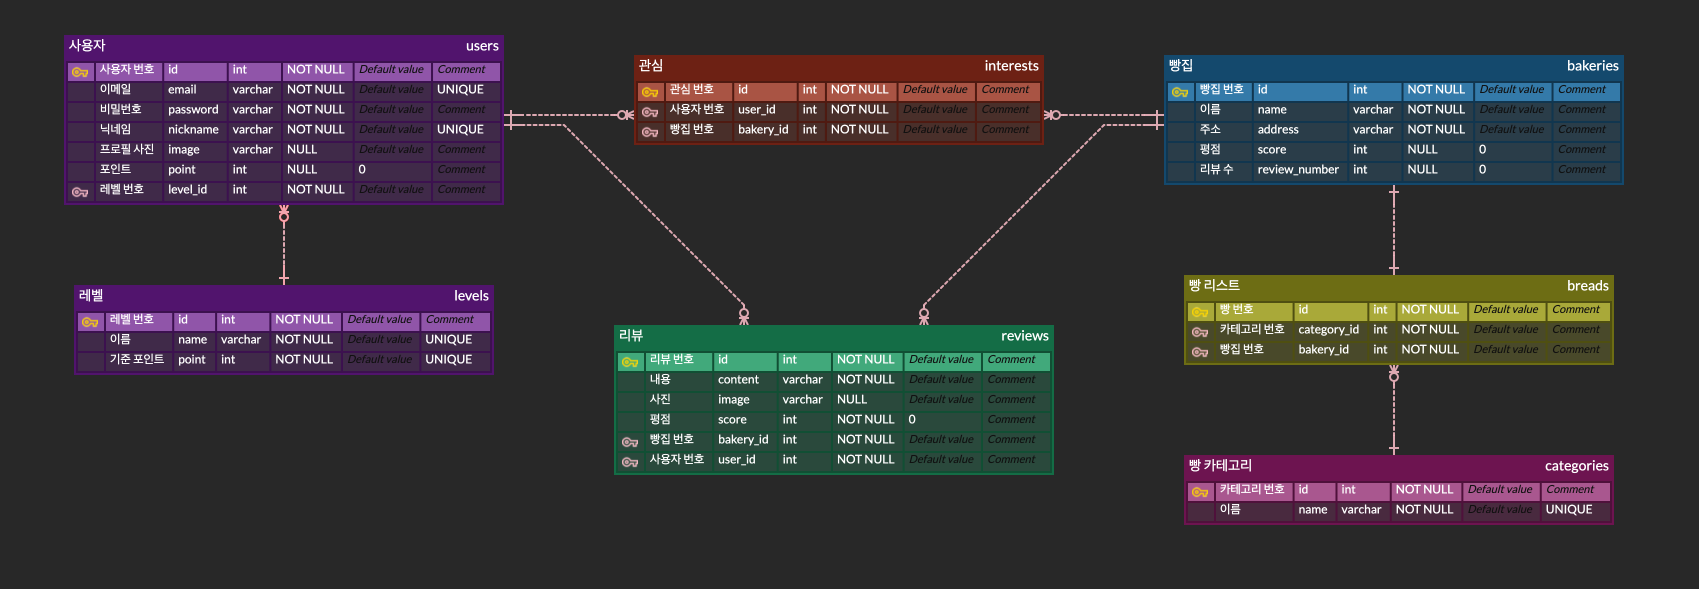
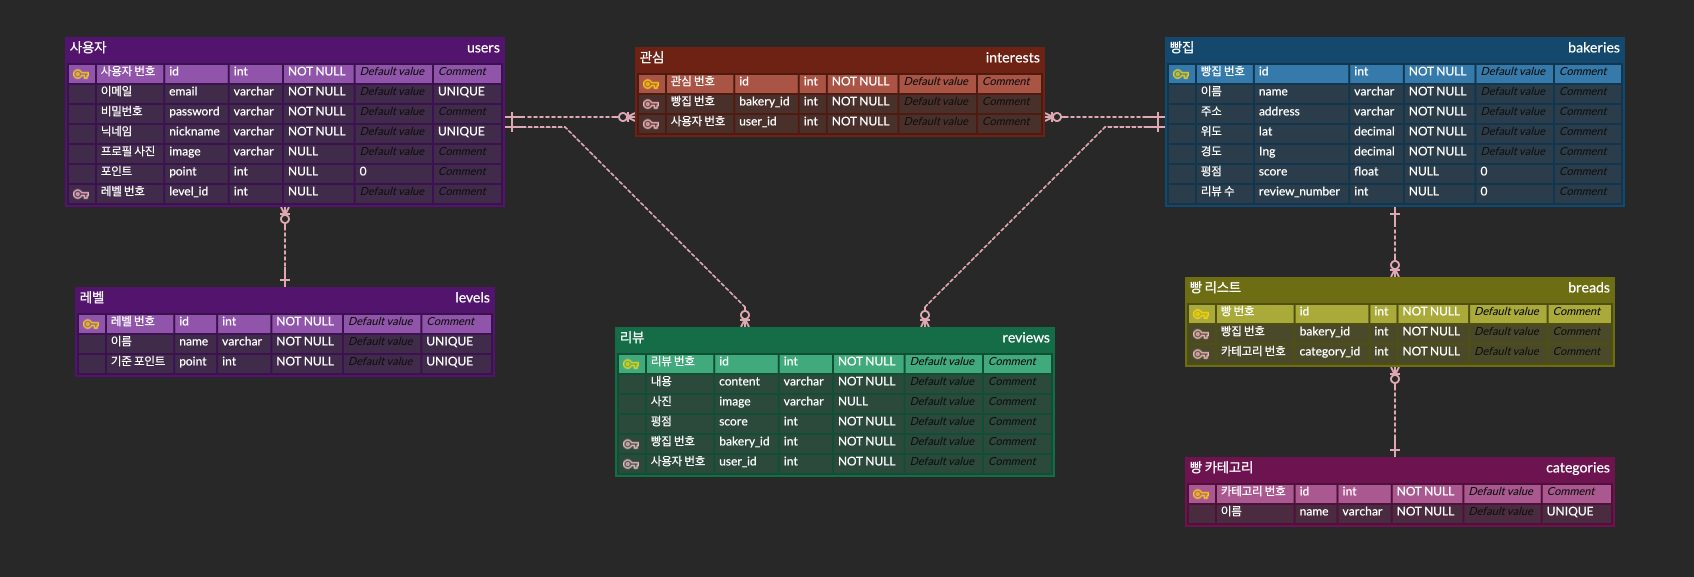
feat: 리뷰(reviews) 테이블 생성 후 관련 api

diff --git a/bakery-map/api/review.py b/bakery-map/api/review.py
@@ -1,0 +1,268 @@
+from flask import request, jsonify
+from flask_restx import Namespace, Resource
+
+from api.bakery import add_review, delete_review, change_review_score
+from api.user import plus_point, minus_point
+from models import Review, db
+from my_jwt import validate_token, get_user_id
+
+Review_api = Namespace(name='Review_api', description="API for managing reviews")
+
+
+@Review_api.route('')
+class ReviewCR(Resource):
+    def get(self):
+        """
+          Get all reviews with jwt.
+        """
+        """
+          Returns:
+            [
+              {
+                "id": 1,
+                "content": "베이글 좋아요",
+                "image": "review1",
+                "score": 5,
+                "bakery_id": 1,
+                "user_id": 1
+              },
+              {
+                "id": 2,
+                "content": "소금빵 좋아요",
+                "image": null,
+                "score": 4,
+                "bakery_id": 2,
+                "user_id": 1
+              },
+              ...
+            ]
+        """
+        token = request.headers.get('Authorization')
+
+        if not validate_token(token):
+            return jsonify({'result': "로그인 실패", 'message': "올바르지 않은 JWT입니다."})
+
+        user_id = get_user_id(token)
+        print(user_id)
+
+        result = []
+
+        try:
+            reviews = Review.query.filter_by(user_id=user_id).all()
+            for review in reviews:
+                result.append(make_result(review))
+
+        except Exception as e:
+            print(e)
+
+        return jsonify(result)
+
+    def post(self):
+        """
+          Create a new review with jwt.
+        """
+        """
+          Request:
+            {
+              "content": "베이글 좋아요",
+              "image": "review1",
+              "score": 5,
+              "bakery_id": 1
+            }
+          Returns:
+            {
+              "id": 1,
+              "content": "베이글 좋아요",
+              "image": "review1",
+              "score": 5,
+              "bakery_id": 1,
+              "user_id": 1
+            }
+        """
+        token = request.headers.get('Authorization')
+
+        if not validate_token(token):
+            return jsonify({'result': "로그인 실패", 'message': "올바르지 않은 JWT입니다."})
+
+        content = request.json.get('content')
+        image = request.json.get('image')
+        score = request.json.get('score')
+        bakery_id = request.json.get('bakery_id')
+        user_id = get_user_id(token)
+        print(bakery_id, user_id)
+
+        try:
+            if Review.query.filter_by(bakery_id=bakery_id, user_id=user_id).first():
+                result = {'result': "추가 실패", 'message': "이미 리뷰 작성한 빵집입니다."}
+
+            else:
+                review = Review(content=content, image=image, score=score, bakery_id=bakery_id, user_id=user_id)
+
+                add_review(bakery_id, score)
+                db.session.add(review)
+                plus_point(user_id, 10)
+
+                db.session.commit()
+
+                result = make_result(review)
+
+        except Exception as e:
+            print(e)
+            result = {}
+
+        return jsonify(result)
+
+
+@Review_api.route('/<int:id>')
+@Review_api.doc(params={'id': 'Review ID'})
+class ReviewRUD(Resource):
+    def get(self, id):
+        """
+          Get a review with jwt and ID.
+        """
+        """
+          Request:
+            GET /reviews/1
+          Returns:
+            {
+              "id": 1,
+              "content": "베이글 좋아요",
+              "image": "review1",
+              "score": 5,
+              "bakery_id": 1,
+              "user_id": 1
+            }
+        """
+        token = request.headers.get('Authorization')
+
+        if not validate_token(token):
+            return jsonify({'result': "로그인 실패", 'message': "올바르지 않은 JWT입니다."})
+
+        user_id = get_user_id(token)
+        print(id, user_id)
+
+        try:
+            review = db.session.get(Review, id)
+
+            if review.user_id != user_id:
+                return jsonify({'result': "조회 실패", 'message': "해당 리뷰를 조회할 권한이 없습니다."})
+
+            result = make_result(review)
+
+        except Exception as e:
+            print(e)
+            result = {}
+
+        return jsonify(result)
+
+    def patch(self, id):
+        """
+          Update a review with jwt.
+        """
+        """
+          Request:
+            PATCH /reviews/2
+            {
+              "content": "소금빵 좋아요",
+              "score": 4
+            }
+          Returns:
+            {
+              "id": 2,
+              "content": "소금빵 좋아요",
+              "image": null,
+              "score": 4,
+              "bakery_id": 2,
+              "user_id": 1
+            }
+        """
+        token = request.headers.get('Authorization')
+
+        if not validate_token(token):
+            return jsonify({'result': "로그인 실패", 'message': "올바르지 않은 JWT입니다."})
+
+        content = request.json.get('content')
+        image = request.json.get('image')
+        score = request.json.get('score')
+        user_id = get_user_id(token)
+        print(id, content, image, score, user_id)
+
+        if not content and not image and not score:
+            return jsonify({'result': "수정 실패", 'message': "수정할 내용을 입력해주세요."})
+
+        try:
+            review = db.session.get(Review, id)
+
+            if review.user_id != user_id:
+                return jsonify({'result': "수정 실패", 'message': "해당 리뷰를 수정할 권한이 없습니다."})
+
+            if content and review.content != content:
+                review.content = content
+
+            if image and review.image != image:
+                review.image = image
+
+            if score and review.score != score:
+                change_review_score(review.bakery_id, review.score, score)
+                review.score = score
+
+            db.session.commit()
+
+            result = make_result(review)
+
+        except Exception as e:
+            print(e)
+            result = {}
+
+        return jsonify(result)
+
+    def delete(self, id):
+        """
+          Delete a review with jwt.
+        """
+        """
+          Request:
+            DELETE /reviews/3
+          Returns:
+            {}
+        """
+        token = request.headers.get('Authorization')
+
+        if not validate_token(token):
+            return jsonify({'result': "로그인 실패", 'message': "올바르지 않은 JWT입니다."})
+
+        user_id = get_user_id(token)
+        print(id, user_id)
+
+        try:
+            review = db.session.get(Review, id)
+
+            if review.user_id != user_id:
+                return jsonify({'result': "삭제 실패", 'message': "해당 리뷰를 삭제할 권한이 없습니다."})
+
+            delete_review(review.bakery_id, review.score)
+            db.session.delete(review)
+            minus_point(user_id, 10)
+
+            db.session.commit()
+
+            result = {}
+
+        except Exception as e:
+            print(e)
+            result = {'result': "삭제 실패"}
+
+        return jsonify(result)
+
+
+def make_result(review):
+    result = {
+        'id': review.id,
+        'content': review.content,
+        'image': review.image,
+        'score': review.score,
+        'bakery_id': review.bakery_id,
+        'user_id': review.user_id
+    }
+
+    return result

diff --git a/bakery-map/models.py b/bakery-map/models.py
@@ -30,6 +30,7 @@ class User(db.Model):
     level = db.relationship("Level", back_populates="users")
 
     interests = db.relationship("Interest", back_populates="user")
+    reviews = db.relationship("Review", back_populates="user")
 
     def __repr__(self):
         return (f"User(id={self.id!r}, email={self.email!r}, password={self.password!r}, nickname={self.nickname!r}, "
@@ -51,6 +52,25 @@ class Interest(db.Model):
         return f"Interest(id={self.id!r}, bakery_id={self.bakery_id!r}, user_id={self.user_id!r})"
 
 
+class Review(db.Model):
+    __tablename__ = 'reviews'
+
+    id = db.Column(db.Integer, primary_key=True)
+    content = db.Column(db.String(255), nullable=False)
+    image = db.Column(db.String(255))
+    score = db.Column(db.Integer, nullable=False)
+
+    bakery_id = db.Column(db.Integer, db.ForeignKey('bakeries.id'))
+    bakery = db.relationship("Bakery", back_populates="reviews")
+
+    user_id = db.Column(db.Integer, db.ForeignKey('users.id'))
+    user = db.relationship("User", back_populates="reviews")
+
+    def __repr__(self):
+        return (f"Review(id={self.id!r}, content={self.content!r}, image={self.image!r}, score={self.score!r}, "
+                f"bakery_id={self.bakery_id!r}, user_id={self.user_id!r})")
+
+
 class Bakery(db.Model):
     __tablename__ = 'bakeries'
 
@@ -64,6 +84,7 @@ class Bakery(db.Model):
 
     breads = db.relationship("Bread", back_populates="bakery")
     interests = db.relationship("Interest", back_populates="bakery")
+    reviews = db.relationship("Review", back_populates="bakery")
 
     def __repr__(self):
         return (f"Bakery(id={self.id!r}, name={self.name!r}, address={self.address!r}, "

diff --git a/bakery-map/api/bakery.py b/bakery-map/api/bakery.py
@@ -400,10 +400,9 @@ def add_review(bakery_id, review_score):
         bakery.score = (bakery.score * bakery.review_number + review_score) / (bakery.review_number + 1)
         bakery.review_number += 1
 
-        db.session.commit()
-
     except Exception as e:
         print(e)
+        return e
 
 
 def delete_review(bakery_id, review_score):
@@ -415,7 +414,19 @@ def delete_review(bakery_id, review_score):
         bakery.score = (bakery.score * bakery.review_number - review_score) / (bakery.review_number - 1)
         bakery.review_number -= 1
 
-        db.session.commit()
+    except Exception as e:
+        print(e)
+        return e
+
+
+def change_review_score(bakery_id, review_score, new_score):
+    print(bakery_id, review_score, new_score)
+
+    try:
+        bakery = db.session.get(Bakery, bakery_id)
+
+        bakery.score = (bakery.score * bakery.review_number - review_score + new_score) / bakery.review_number
 
     except Exception as e:
         print(e)
+        return e

diff --git a/bakery-map/main.py b/bakery-map/main.py
@@ -7,6 +7,7 @@ from api.bread import Bread_api
 from api.category import Category_api
 from api.interest import Interest_api
 from api.level import Level_api
+from api.review import Review_api
 from api.user import bcrypt, User_api
 from config import Config
 from models import db
@@ -40,6 +41,7 @@ api = Api(
 api.add_namespace(Level_api, '/levels')
 api.add_namespace(User_api, '/users')
 api.add_namespace(Interest_api, '/interests')
+api.add_namespace(Review_api, '/reviews')
 api.add_namespace(Bakery_api, '/bakeries')
 api.add_namespace(Bread_api, '/breads')
 api.add_namespace(Category_api, '/categories')

diff --git a/bakery-map/api/user.py b/bakery-map/api/user.py
@@ -150,3 +150,27 @@ class Login(Resource):
             result = {'result': "로그인 실패"}
 
         return jsonify(result)
+
+
+def plus_point(user_id, point):
+    print(user_id, point)
+
+    try:
+        user = db.session.get(User, user_id)
+        user.point += point
+
+    except Exception as e:
+        print(e)
+        return e
+
+
+def minus_point(user_id, point):
+    print(user_id, point)
+
+    try:
+        user = db.session.get(User, user_id)
+        user.point -= point
+
+    except Exception as e:
+        print(e)
+        return e
